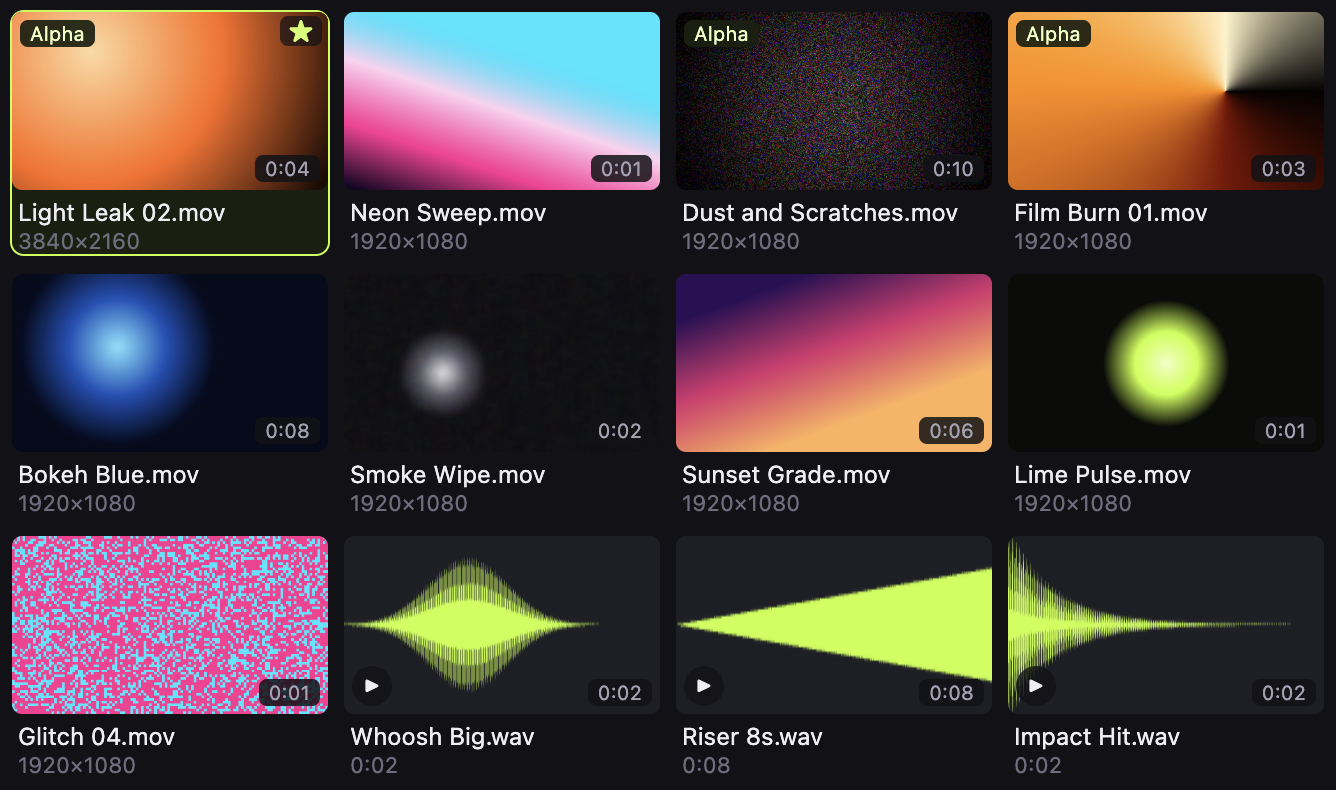
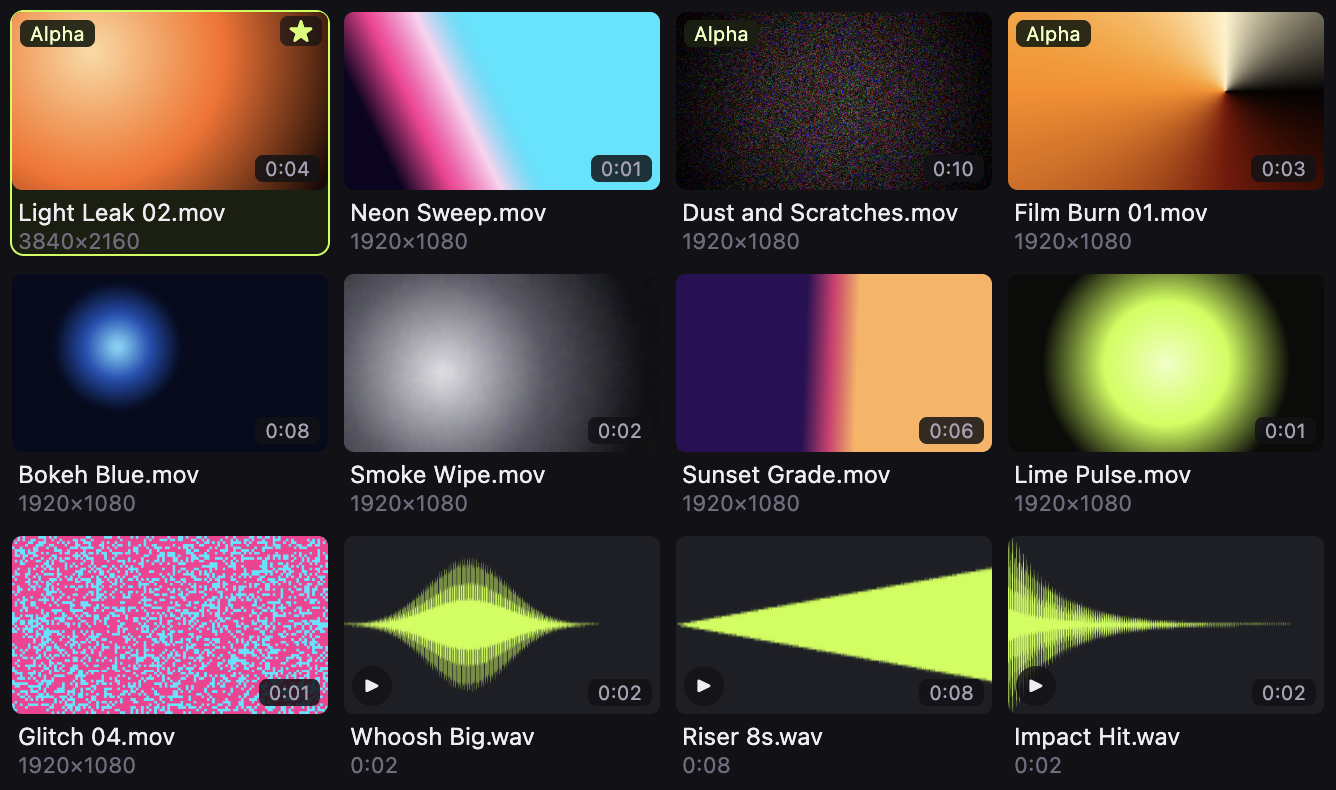
Screenshots: panel search, waveforms and tags views (pnpm screenshot)

diff --git a/apps/premiere-panel/tests/screenshot.harness.spec.ts b/apps/premiere-panel/tests/screenshot.harness.spec.ts
@@ -2,7 +2,7 @@ import { execFileSync } from 'node:child_process'
 import { existsSync, mkdirSync, mkdtempSync, rmSync, writeFileSync } from 'node:fs'
 import { tmpdir } from 'node:os'
 import { join } from 'node:path'
-import { _electron as electron, expect, test } from '@playwright/test'
+import { _electron as electron, expect, test, type Page } from '@playwright/test'
 import { FFMPEG } from './harness/library'
 
 // Renders the README screenshot of the asset grid: the real panel UI with the fake Premiere API
@@ -11,7 +11,8 @@ import { FFMPEG } from './harness/library'
 test.skip(!process.env.SCREENSHOT, 'Only runs for `pnpm screenshot`')
 test.skip(!existsSync(FFMPEG), 'Needs the bundled FFmpeg to make thumbnails')
 
-const OUT = join(__dirname, '..', '..', '..', 'docs', 'images', 'asset-grid.png')
+const IMAGES = join(__dirname, '..', '..', '..', 'docs', 'images')
+const OUT = join(IMAGES, 'asset-grid.png')
 
 let home: string
 
@@ -113,7 +114,7 @@ test.beforeAll(() => {
         'leak',
         'type=radial:c0=0xFFD9A0:c1=0xFF6A1A:c2=0x1A0905:x0=120:y0=60:x1=470:y1=260:nb_colors=3'
       ),
-      { hasAlpha: true, favorite: true, width: 3840, height: 2160 }
+      { hasAlpha: true, favorite: true, width: 3840, height: 2160, tags: ['warm', 'overlay'] }
     ),
     video(
       'Neon Sweep.mov',
@@ -133,7 +134,7 @@ test.beforeAll(() => {
         'color=c=0x2A241C:s=480x270',
         'noise=alls=55:allf=t,vignette=PI/4'
       ),
-      { hasAlpha: true }
+      { hasAlpha: true, tags: ['overlay', 'texture'] }
     ),
     video(
       'Film Burn 01.mov',
@@ -143,7 +144,7 @@ test.beforeAll(() => {
         'burn',
         'type=circular:c0=0xFFF1C7:c1=0xFF8A00:c2=0x7A0F00:c3=0x050302:x0=330:y0=120:x1=480:y1=270:nb_colors=4'
       ),
-      { hasAlpha: true }
+      { hasAlpha: true, tags: ['warm', 'overlay'] }
     ),
     video(
       'Bokeh Blue.mov',
@@ -169,7 +170,8 @@ test.beforeAll(() => {
       'Sunset Grade.mov',
       'Backgrounds',
       6000,
-      g('sunset', 'c0=0x2B1055:c1=0xD7316E:c2=0xFFB25B:x0=200:y0=0:x1=280:y1=270:nb_colors=3')
+      g('sunset', 'c0=0x2B1055:c1=0xD7316E:c2=0xFFB25B:x0=200:y0=0:x1=280:y1=270:nb_colors=3'),
+      { tags: ['warm'] }
     ),
     video(
       'Lime Pulse.mov',
@@ -217,7 +219,7 @@ test.beforeAll(() => {
       updatedAt: 1,
       app: '0.1.1',
       roots: [{ id: 1, label: 'SSD', online: true, path: '/Volumes/SSD' }],
-      tags: [],
+      tags: ['overlay', 'texture', 'warm'],
       assets
     })
   )
@@ -271,4 +273,60 @@ test('asset grid screenshot for the README', async () => {
   } finally {
     await app.close()
   }
+})
+
+/** Opens the panel at a panel-like size, runs `setup`, and captures everything above the track
+ * and edit controls (only the tag chips of the bottom bar are kept). */
+async function panelShot(name: string, setup: (page: Page) => Promise<void>): Promise<void> {
+  // A fresh profile each time: the panel remembers the last folder and view.
+  rmSync(join(home, 'profile'), { recursive: true, force: true })
+  const app = await electron.launch({
+    args: [join(__dirname, 'harness', 'main.cjs')],
+    env: { ...process.env, HARNESS_HOME: home }
+  })
+  try {
+    const page = await app.firstWindow()
+    await app.evaluate(({ BrowserWindow }) => BrowserWindow.getAllWindows()[0].setSize(900, 640))
+    await expect(page.locator('.tile')).toHaveCount(12)
+    await page.selectOption('.size-select', '160')
+    await setup(page)
+    await page.waitForFunction(() =>
+      Array.from(document.querySelectorAll<HTMLImageElement>('.grid img')).every((i) => i.complete)
+    )
+    const bottom = await page.evaluate(() => {
+      const tags = document.querySelector<HTMLElement>('.tag-row')
+      if (tags && tags.offsetParent !== null) return tags.getBoundingClientRect().bottom + 6
+      return document.querySelector<HTMLElement>('.footer')!.getBoundingClientRect().top
+    })
+    const width = await page.evaluate(() => document.documentElement.clientWidth)
+    mkdirSync(IMAGES, { recursive: true })
+    await page.screenshot({ path: join(IMAGES, name), clip: { x: 0, y: 0, width, height: bottom } })
+  } finally {
+    await app.close()
+  }
+}
+
+test('panel screenshot: search', async () => {
+  await panelShot('panel-search.png', async (page) => {
+    await page.fill('.search', 'warm')
+    await expect(page.locator('.tile')).toHaveCount(3)
+  })
+})
+
+test('panel screenshot: waveforms', async () => {
+  await panelShot('panel-waveforms.png', async (page) => {
+    await page.locator('.tree-row.folder', { hasText: 'SFX' }).click()
+    await expect(page.locator('.tile')).toHaveCount(3)
+    await page.locator('.tile', { hasText: 'Whoosh Big.wav' }).click()
+  })
+})
+
+test('panel screenshot: tags', async () => {
+  await panelShot('panel-tags.png', async (page) => {
+    await page.locator('.tree-row.section', { hasText: 'Tags' }).click()
+    await page.locator('.tree-row.special[title="overlay"]').click()
+    await expect(page.locator('.tile')).toHaveCount(3)
+    await page.locator('.tile', { hasText: 'Light Leak 02.mov' }).click()
+    await expect(page.locator('.tag-row .tag')).toHaveCount(2)
+  })
 })
